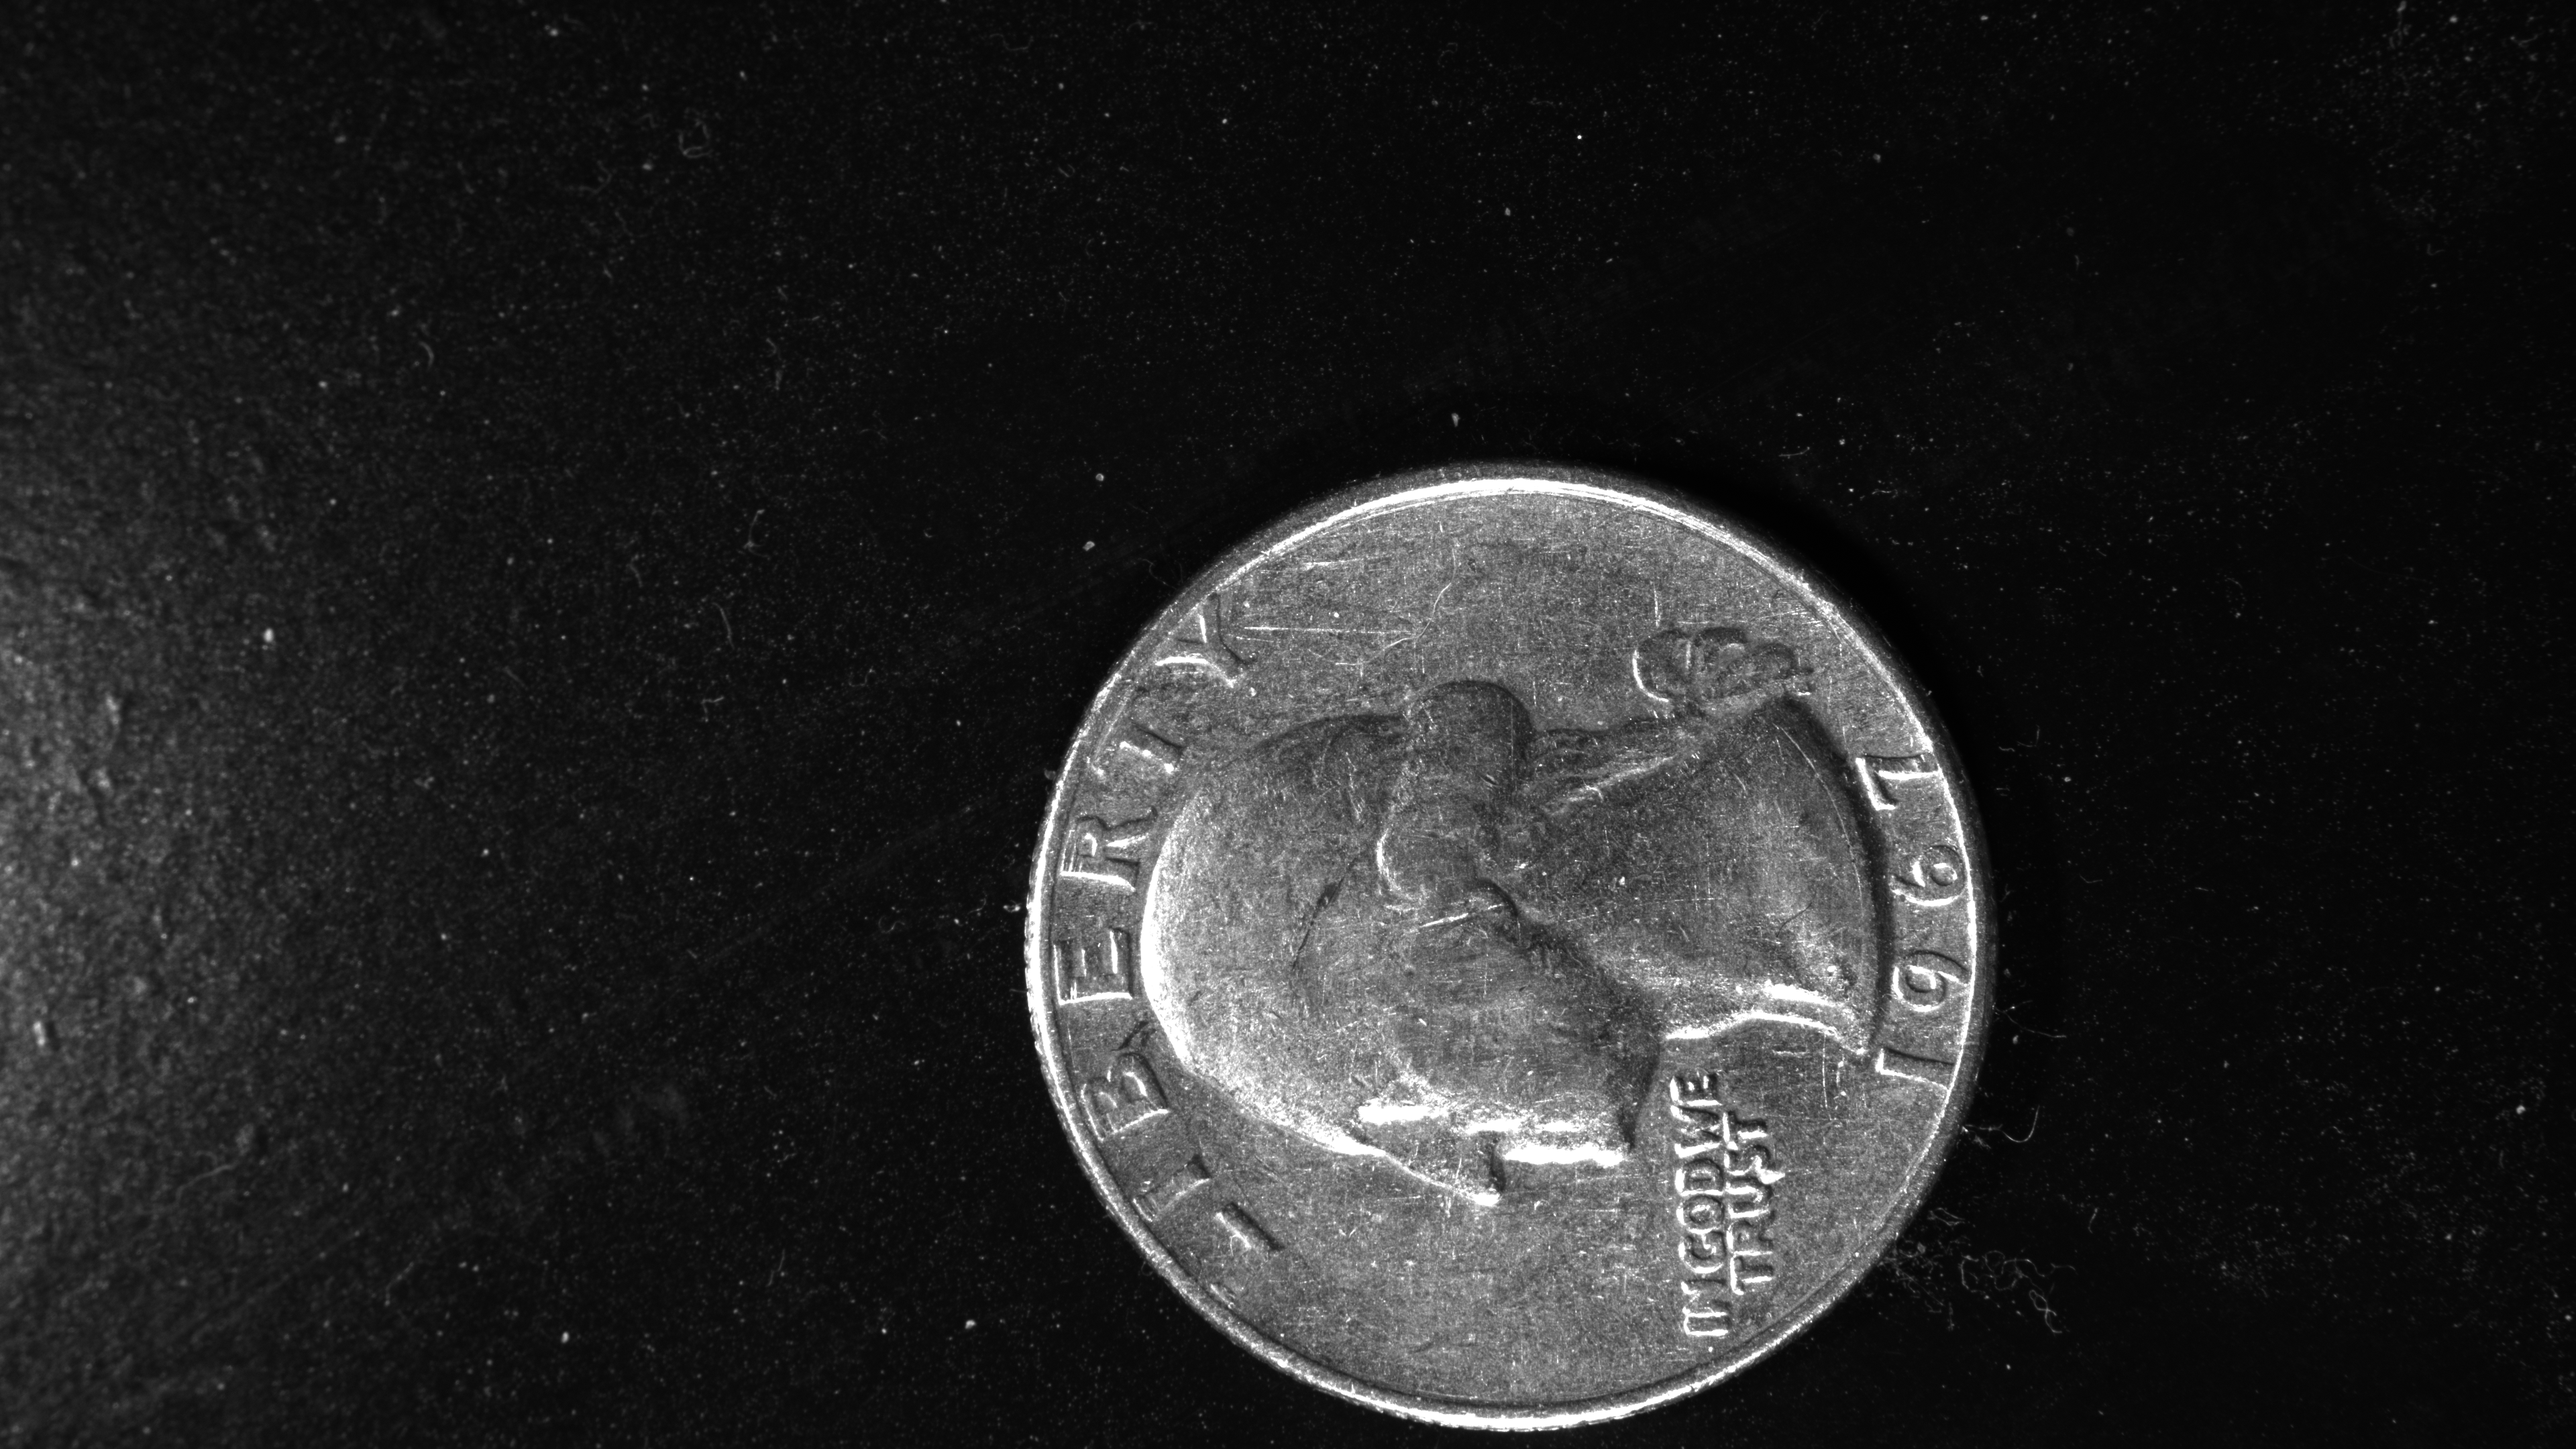
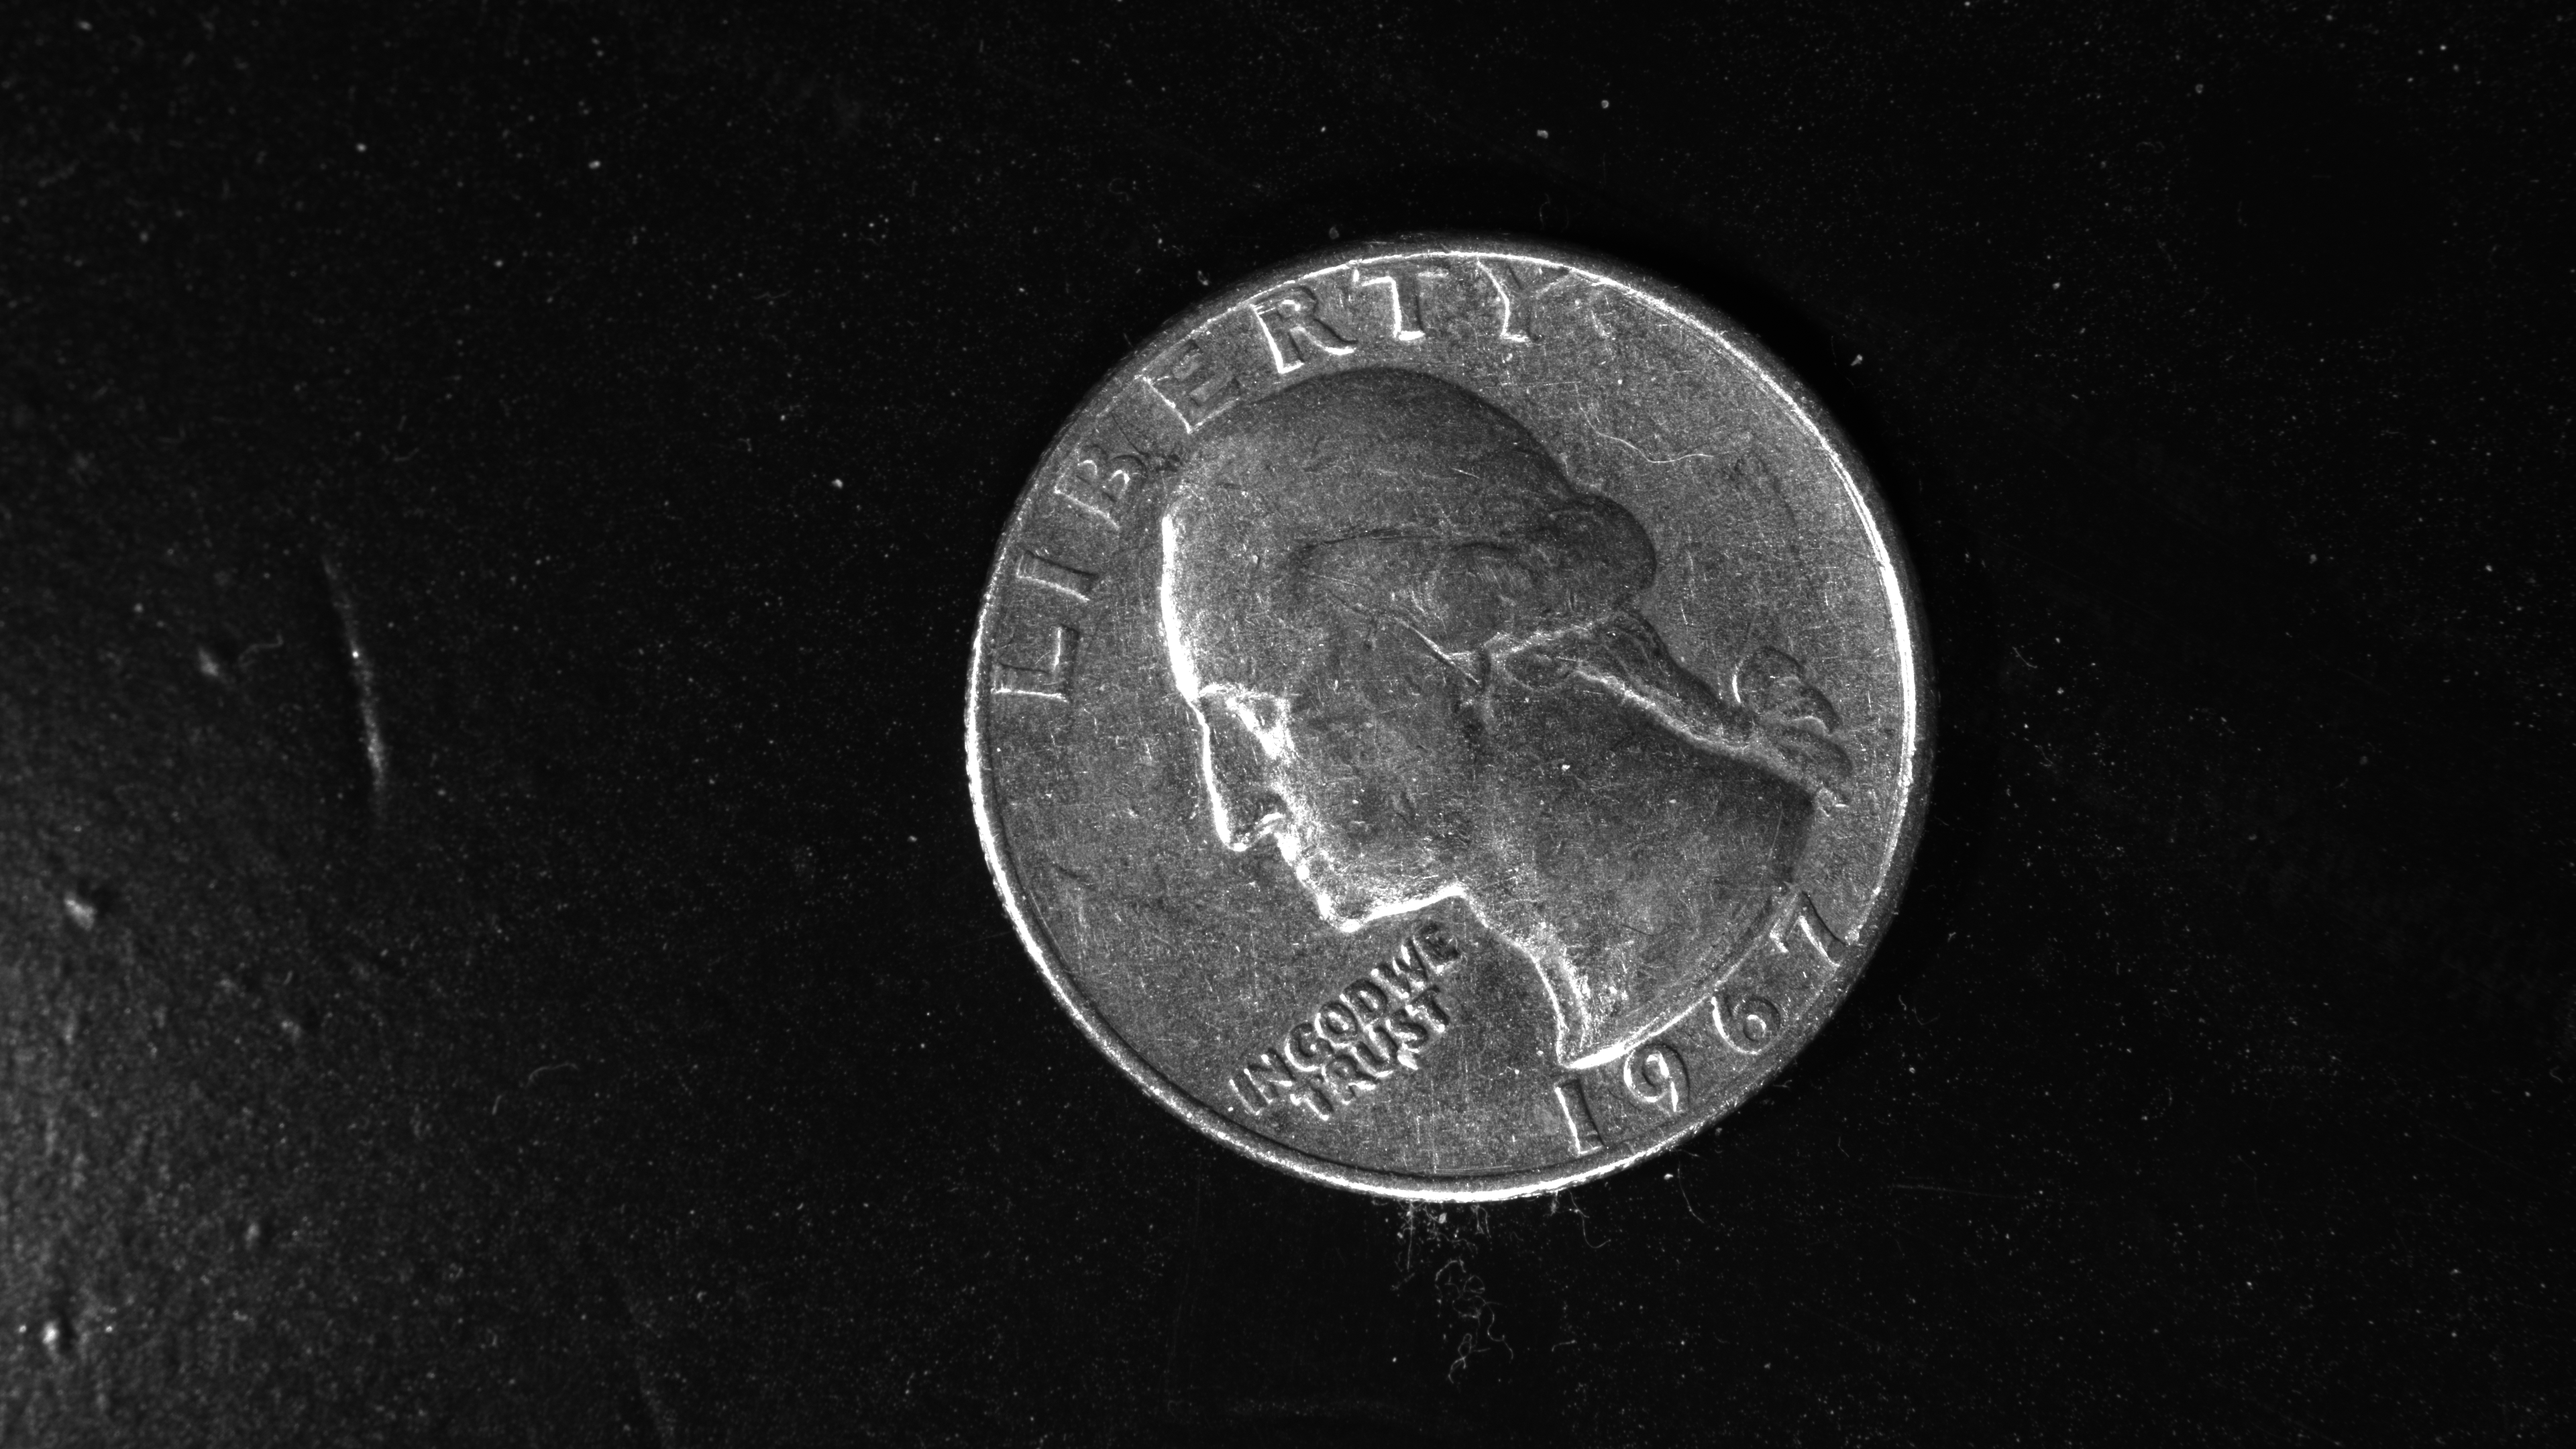
Add latest template-matching based rotation tests

Changed region(s): [[0.375, 0.1551, 0.7812, 0.9926], [0.0, 0.2481, 0.1562, 1.0], [0.0625, 0.8375, 0.125, 0.8685]]

diff --git a/main.py b/main.py
@@ -11,6 +11,8 @@ from quarterid.orientation import template_match
 from quarterid.coin_regularization import rotate_image, intensity_normalize_image
 from quarterid.coin_read import read_date, read_mint
 
+from quarterid.capture import capture
+
 logger = logging.getLogger(__name__)
 
 
@@ -23,26 +25,27 @@ def main():
 
     # Load an image
     image = cv2.imread(
-        "data/mixed/1967.png",
+        "data/rotated/180,1967.png",
         cv2.IMREAD_GRAYSCALE
     )
-    # image = capture.capture()
+    # image = capture()
     logger.info(f"Loaded image of size {image.shape[0]}x{image.shape[1]}")
 
     # Search for circular elements in the image
-    coins_found = split_coins(image=image, pix_radius=735)
+    coins_found = split_coins(image=image, pix_radius=730)
 
     # Iterate over all the coins that were found
     for index, (coin_image, circle) in enumerate(coins_found):
         (x, y, r) = circle
 
-        # TODO Find coin rotation
-        template_match.find_angle(image)
-        # rotated_image = rotate_image(coin_image, -2)
-        # image_logging.info(rotated_image, f"coin_{index}_({x},{y})")
-        #
-        # logger.info(read_date(rotated_image))
-        # print(read_mint(rotated_image))
+        image_logging.info(coin_image, f"coin_{index}_({x},{y})")
+
+        # TODO Find coin rotation, and correct it
+        angle = template_match.find_angle(image)
+        rotated_image = rotate_image(coin_image, angle)
+        image_logging.info(rotated_image, f"coin_{index}_rotated_({x},{y})")
+
+        logger.info(read_date(rotated_image))
 
     # Annotate the original image, for debugging
     for _, (x, y, r) in coins_found:

diff --git a/quarterid/coin_read.py b/quarterid/coin_read.py
@@ -13,11 +13,11 @@ def isolate_date(coin_image):
     side_length = coin_image.shape[0]
 
     # These determine the pixel size of the digits
-    char_width = int(side_length / 10)
-    char_height = int(char_width * 1.40)
+    char_width = int(side_length / 11)
+    char_height = int(char_width * 1.20)
 
     # This determines the gap between the pixels and the bottom of the image
-    rim_thickness = int(side_length * 0.000)
+    rim_thickness = int(side_length * 0.005)
 
     # These are the bounds of the region we need to take
     char_start_x = int((side_length - char_width) / 2)
@@ -27,7 +27,7 @@ def isolate_date(coin_image):
     char_box = (char_start_x, char_start_y, char_end_x, char_end_y)
 
     # Start by rotating the image to center the first digit
-    rotated_image = coin_regularization.rotate_image(coin_image, 25)
+    rotated_image = coin_regularization.rotate_image(coin_image, 22)
 
     # We can *probably* trust that our dates will have 4 digits
     digits = []

diff --git a/tests/plot_rotation_template.py b/tests/plot_rotation_template.py
@@ -9,13 +9,13 @@ from quarterid.orientation import template_match
 
 def main():
     # Load an image
-    image_path = "data/dates/1984.png"
+    image_path = "data/dates/1967.png"
     image = cv2.imread(
         image_path,
         cv2.IMREAD_GRAYSCALE
     )
     assert image is not None
-    # image = coin_regularization.rotate_image(image, 120)
+    image = coin_regularization.rotate_image(image, 180)
 
     # File to load our template from
     template_path = "../quarterid/orientation/templates/edges.png"
@@ -28,7 +28,7 @@ def main():
     # Create a plot
     plt.style.use('dark_background')
     axis = plt.subplot(projection='polar')
-    axis.set_title("Template similarity as a function of image rotation (1984)")
+    axis.set_title("Template similarity as a function of image rotation (1967)")
     axis.set_theta_zero_location("S")
     axis.set_rmax(1.0)
 

diff --git a/quarterid/orientation/template_match.py b/quarterid/orientation/template_match.py
@@ -2,10 +2,13 @@ import os
 
 import cv2
 import numpy as np
+import logging
 
 import quarterid.coin_regularization
 from quarterid import coin_isolation
 from quarterid.coin_regularization import rotate_image
+
+logger = logging.getLogger(__name__)
 
 
 def similarity_to_template(image, template):
@@ -47,6 +50,6 @@ def find_angle(image):
 
     # Find the angle of highest similarity
     best_angle = max(similarities, key=similarities.get)
-    print(best_angle)
+    logger.debug(f"Coin angle determined: {best_angle}deg")
 
     return best_angle

diff --git a/camera_test.py b/camera_test.py
@@ -42,7 +42,7 @@ def single_capture():
 
 def main():
     # single_capture()
-    cv2.imwrite("data/rotated/315,1967.png", capture())
+    cv2.imwrite("data/test.png", capture())
 
 
 if __name__ == '__main__':
